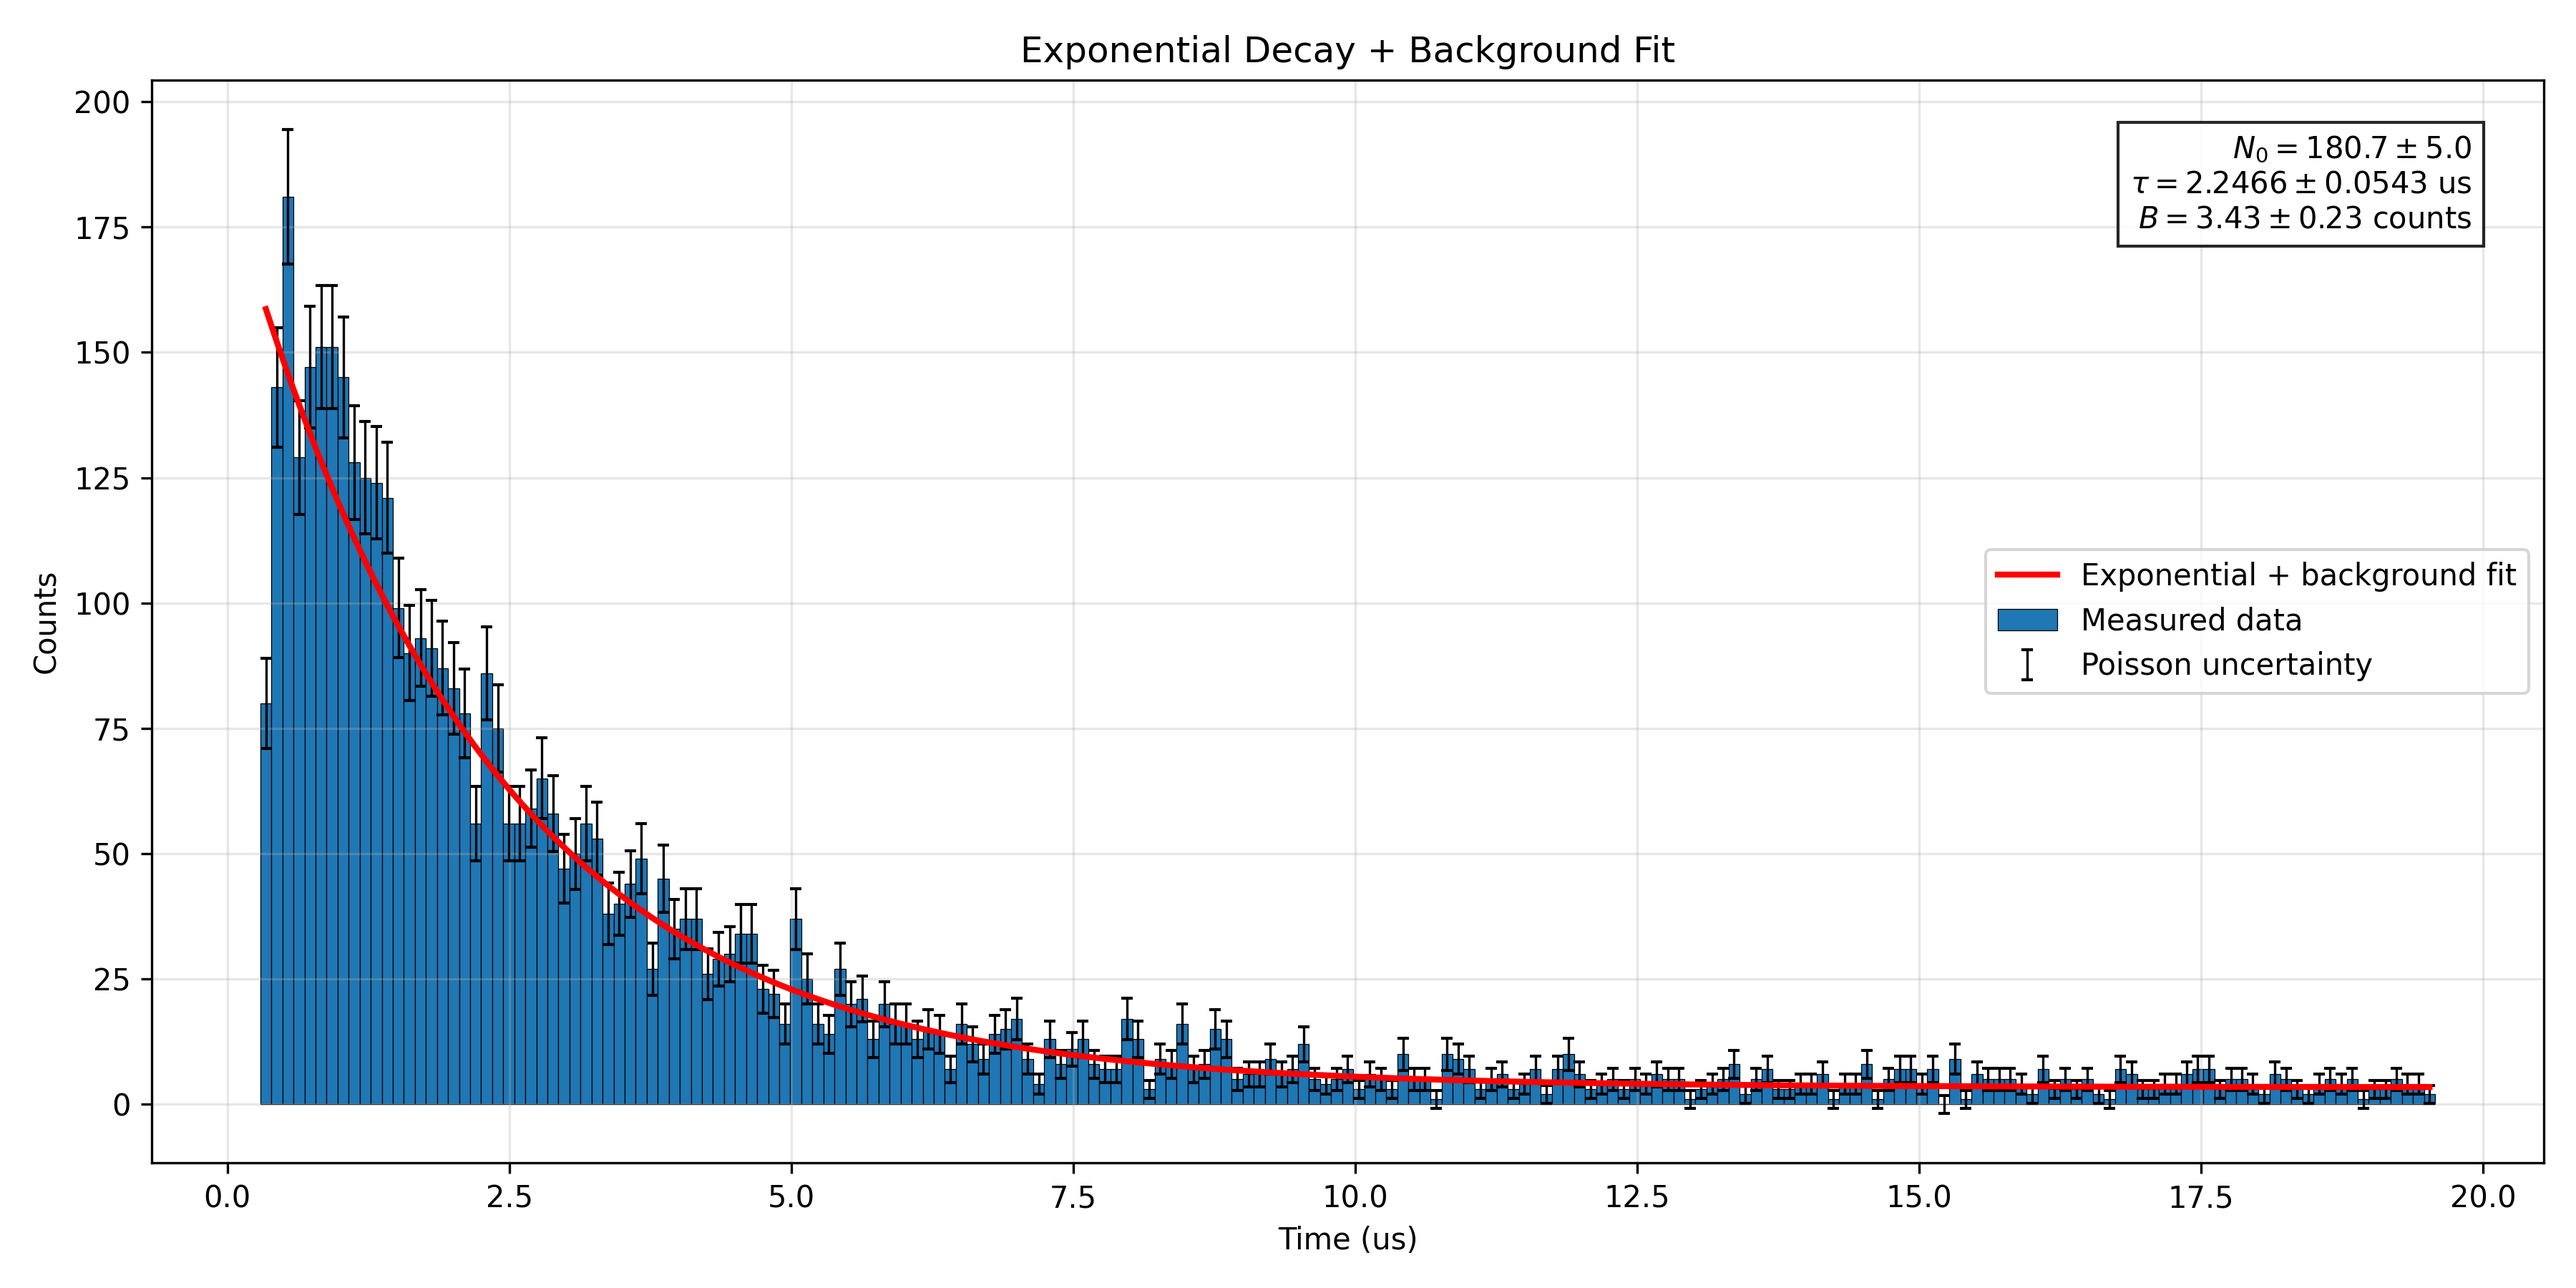
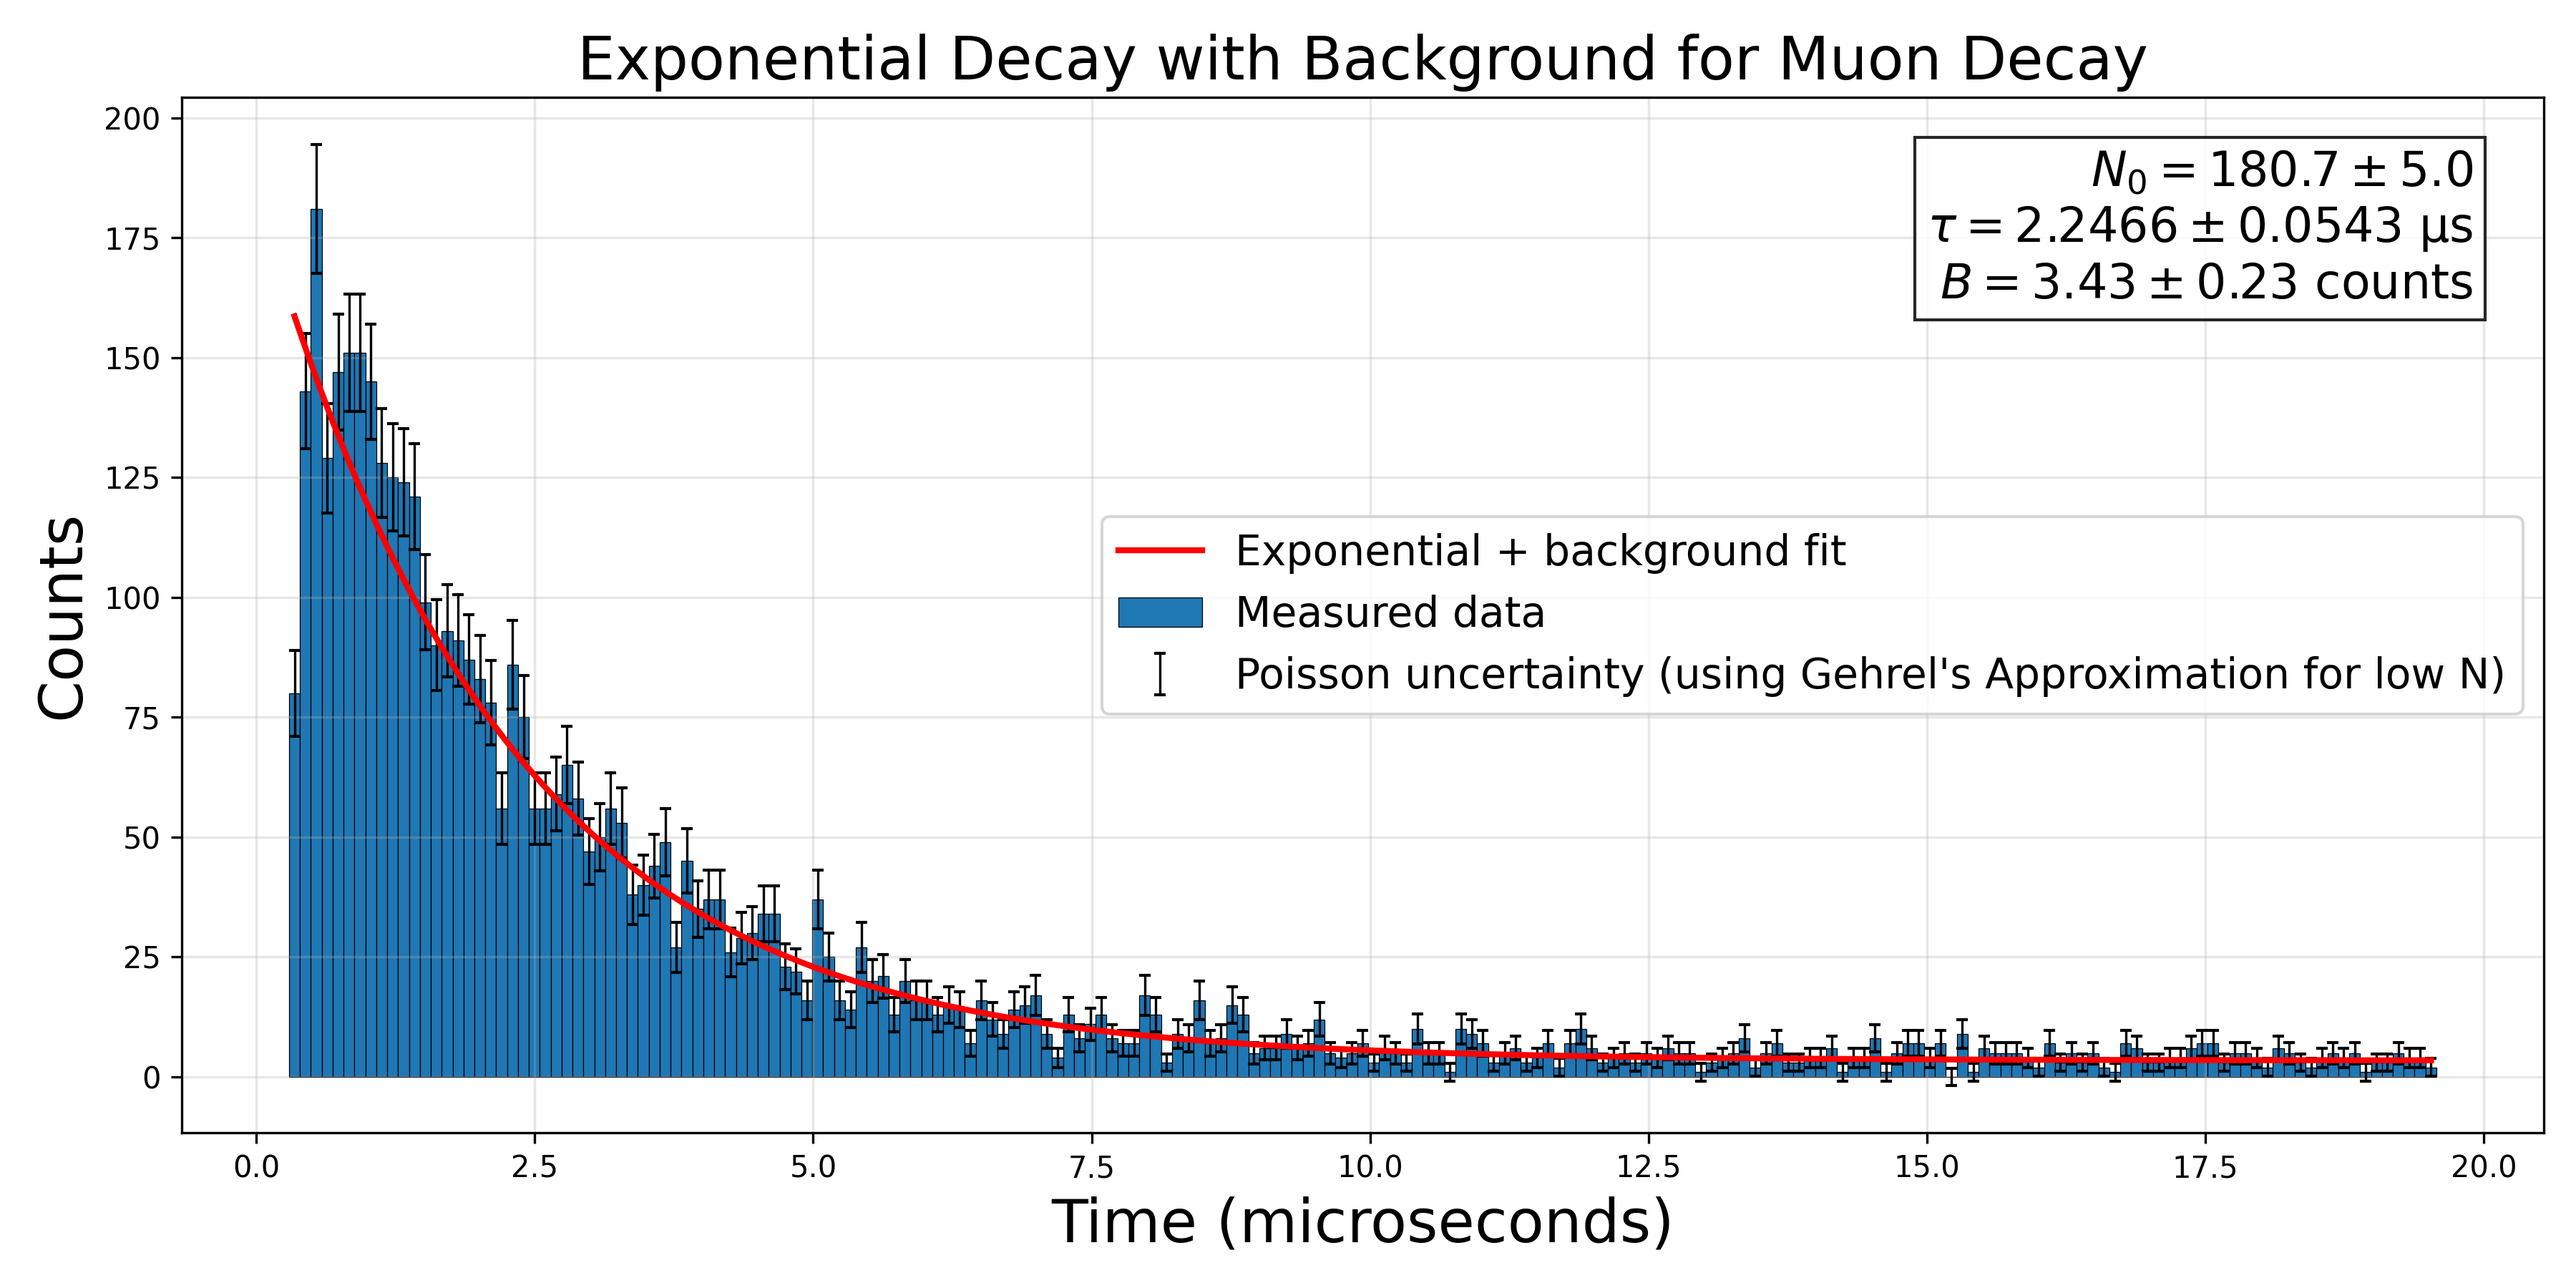
nicer plots

diff --git a/python/muon_fitting.py b/python/muon_fitting.py
@@ -48,7 +48,7 @@ popt, pcov = curve_fit(
 )
 N0, tau, B = popt
 
-sigma_N0_fit, sigma_tau_fit, sigma_B_fit = np.sqrt(np.diag(pcov))                                # statistical fit uncertainty
+sigma_N0_fit, sigma_tau_fit, sigma_B_fit = np.sqrt(np.diag(pcov))                   # statistical fit uncertainty
 sigma_tau_bin = tau * (sigma_V / np.mean(np.abs(voltage)))                          # binning uncertainty
 sigma_tau_cal = tau * sigma_C / C                                                   # scale uncertainty proportionally
 sigma_tau_total = np.sqrt(sigma_tau_fit**2 + sigma_tau_bin**2 + sigma_tau_cal**2)   # add in quad 
@@ -71,6 +71,10 @@ print(f"Time bin uncertainty:        {sigma_time_bin:.5f} us")
 time_fit = np.linspace(np.min(time), np.max(time), 1000)
 counts_fit = exponential_decay(time_fit, N0, tau, B)
 
+print("\n--- Final Numbers ---")
+print(f"tau:                {tau:.5f}")
+print(f"sigma tau:          {sigma_tau_total:.5f} us")
+
 # Plot
 plt.figure(figsize=(12, 6))
 
@@ -92,7 +96,7 @@ plt.errorbar(
     color="black",
     capsize=2,
     linewidth=0.8,
-    label="Poisson uncertainty"
+    label="Poisson uncertainty (using Gehrel's Approximation for low N)"
 )
 
 plt.plot(
@@ -103,15 +107,15 @@ plt.plot(
     label="Exponential + background fit"
 )
 
-plt.xlabel("Time (us)")
-plt.ylabel("Counts")
-plt.title("Exponential Decay + Background Fit")
+plt.xlabel("Time (microseconds)", size = 20)
+plt.ylabel("Counts", size = 20)
+plt.title("Exponential Decay with Background for Muon Decay", size = 20)
 plt.grid(alpha=0.3)
-plt.legend()
+plt.legend(fontsize=14)
 
 fit_text = (
     rf"$N_0 = {N0:.1f} \pm {sigma_N0_total:.1f}$" "\n"
-    rf"$\tau = {tau:.4f} \pm {sigma_tau_total:.4f}$ us" "\n"
+    rf"$\tau = {tau:.4f} \pm {sigma_tau_total:.4f}$ μs" "\n"
     rf"$B = {B:.2f} \pm {sigma_B_total:.2f}$ counts"
 )
 
@@ -121,6 +125,7 @@ plt.text(
     transform=plt.gca().transAxes,
     ha="right",
     va="top",
+    fontsize=16,
     bbox=dict(facecolor="white", alpha=0.85)
 )
 
